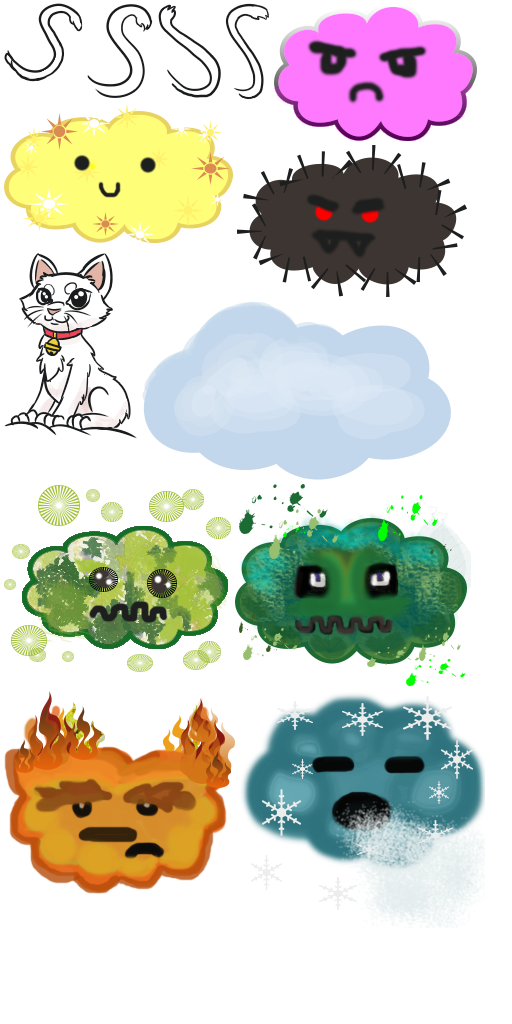
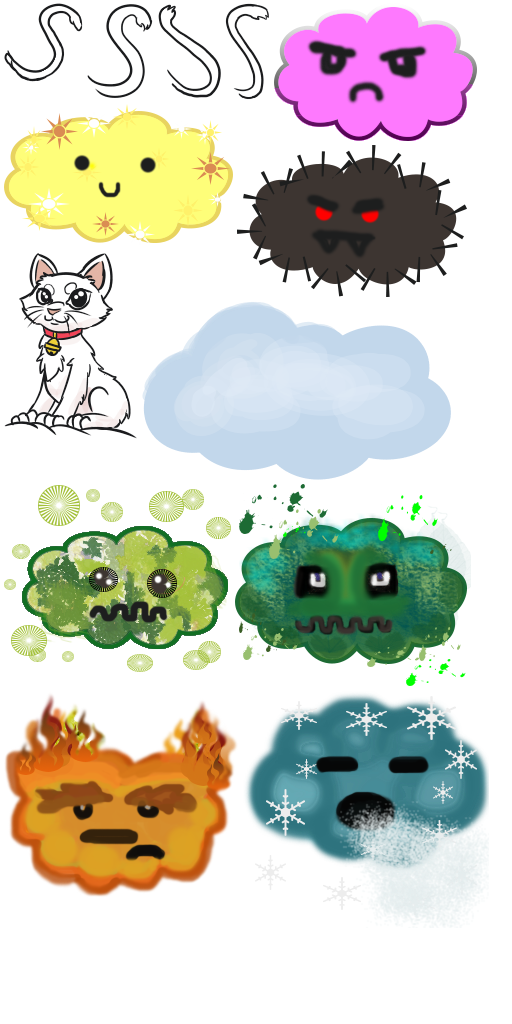
Fixed the lava cloud graphic, changed how cutscene progress is saved and loaded

Changed region(s): [[0.0, 0.6562, 0.75, 0.875], [0.5938, 0.6875, 0.9688, 0.8438], [0.75, 0.7188, 0.7812, 0.75]]

diff --git a/KuuraInTheGlobe-master/Assets/Cutscenes/Scripts/EventHandler.cs b/KuuraInTheGlobe-master/Assets/Cutscenes/Scripts/EventHandler.cs
@@ -73,54 +73,20 @@ public class EventHandler : MonoBehaviour {
     int completedLevels()
     {
         //Get completed levels from global game manager
-        levelsCompleted = 0;
-		return levelsCompleted;
-		/*
+		int ret = 0;
         switch (currentScene)
         {
-			
-            case "Mine":
-                for (int i = 0; i <= 10; i++)
-                {
-                    if (LabyGameManager.manager.completedLevels.Contains(i))
-                    {
-                        levelsCompleted++;
-                    }
-                }
-                break;
-            case "Warehouse":
-                for (int i = 0; i <= 10; i++)
-                {
-                    if (ShelfGameManager.manager.completedLevels.Contains(i))
-                    {
-                        levelsCompleted++;
-                    }
-                }
-                break;
-            case "Forest":
-                for (int i = 0; i <= 10; i++)
-                {
-                    if (RunnerManager.manager.completedLevels.Contains(i))
-                    {
-                        levelsCompleted++;
-                    }
-                }
-                break;
-            case "Memory":
-                for (int i = 0; i <= 10; i++)
-                {
-                    if (MemoryGameLevelSelecterLimitter.completedLevels.Contains(i))
-                    {
-                        levelsCompleted++;
-                    }
-                }
-                break;
-            
+			case "RocketGame": 
+				ret = GlobalGameManager.GGM.getNumberOfBeatenLevels ("rocketGame");
+				break;
+			case "WordQuiz":
+				ret = GlobalGameManager.GGM.getNumberOfBeatenLevels ("quizGame"); //Note that WordQuiz != quizGame!
+				break;
             default:
                 Debug.Log("Scene doesn't exist");
                 break;
-        }*/
-        //Debug.Log("levels completed is " + levelsCompleted);
+        }
+		return ret;
     }
     void progressedInStory()
     {
@@ -142,18 +108,9 @@ public class EventHandler : MonoBehaviour {
     {
         switch (currentScene)
         {
-			/*
-            case "Mine":
-                MusicPlayer.PlayMusic(MusicTrack.HedgeMazeCutscene);
-                break;
-            case "Warehouse":
-                MusicPlayer.PlayMusic(MusicTrack.BubbleWarehouseCutscene);
-                break;
-            case "Forest":*/
 			case "RocketGame":
 				MusicPlayer.PlayMusic(MusicTrack.WinterForestMarathonCutscene);
                 break;
-            //case "Memory":
 			case "WordQuiz":
                 MusicPlayer.PlayMusic(MusicTrack.MysticCardsCutscene);
                 break;
@@ -171,25 +128,9 @@ public class EventHandler : MonoBehaviour {
     {
         switch (currentScene)
         {
-			/*
-            case "Mine":
-                cutScenesWatched = GlobalGameManager.GGM.labyrinthCutscenesWatched;
-                break;
-            case "Warehouse":
-                cutScenesWatched = GlobalGameManager.GGM.warehouseCutscenesWatched;
-                break;
-            case "Forest":
-                cutScenesWatched = GlobalGameManager.GGM.runnerCutscenesWatched;
-                break;
-            case "Memory":
-                cutScenesWatched = GlobalGameManager.GGM.memoryCutscenesWatched;
-                break;
-            */
 			case "RocketGame":
-				cutScenesWatched = GlobalGameManager.GGM.rocketGameCutscenesWatched;
-				break;
 			case "WordQuiz":
-				cutScenesWatched = GlobalGameManager.GGM.wordQuizCutscenesWatched;
+				cutScenesWatched = GlobalGameManager.GGM.checkCutsceneProgress (currentScene);
 				break;
             default:
                 Debug.Log("Scene doesn't exist");

diff --git a/KuuraInTheGlobe-master/Assets/MapScene/Scripts/GlobalGameManager.cs b/KuuraInTheGlobe-master/Assets/MapScene/Scripts/GlobalGameManager.cs
@@ -60,8 +60,8 @@ public class GlobalGameManager : MonoBehaviour
     List<int> memoryGamecompletedLevels;
 
     //How many cutscenes the player has seen from each world;
-	public int rocketGameCutscenesWatched = 0;
-	public int wordQuizCutscenesWatched = 0;
+	//public int rocketGameCutscenesWatched = 0;
+	//public int wordQuizCutscenesWatched = 0;
 
     //Singleton check
     public void Awake()
@@ -89,7 +89,7 @@ public class GlobalGameManager : MonoBehaviour
 
     void Start()
     {
-        CutSceneLoad();
+        //CutSceneLoad();
     }
 
     public void StartMapScene()
@@ -172,17 +172,27 @@ public class GlobalGameManager : MonoBehaviour
 
 	//---------------------------------------------------------------------------------------------
 
-    public void CutSceneSave()
-    {
+	// Use these two functions to load and save the current progress of cutscenes
+	public int checkCutsceneProgress ( string key )
+	{
+		key = key + "-CutsceneWatched";
+		if (PlayerPrefs.HasKey ( key ) ) {
+			return PlayerPrefs.GetInt (key);
+		} else {
+			return 0;
+		}
+	}
 
-		PlayerPrefs.SetInt("rocketGameCutscenesWatched", rocketGameCutscenesWatched);
-		PlayerPrefs.SetInt("wordQuizCutscenesWatched", wordQuizCutscenesWatched );
-    }
-    public void CutSceneLoad()
-    {
-		rocketGameCutscenesWatched = PlayerPrefs.GetInt("rocketGameCutscenesWatched");
-		wordQuizCutscenesWatched = PlayerPrefs.GetInt("wordQuizCutscenesWatched");
-    }
+	public void saveCutsceneProgress ( string key, int val )
+	{
+		key = key + "-CutsceneWatched";
+		PlayerPrefs.SetInt (key, val);
+	}
+
+	public void incrementCutsceneProgress ( string key )
+	{
+		saveCutsceneProgress (key, GlobalGameManager.GGM.checkCutsceneProgress (key) + 1); 
+	}
 	//---------------------------------------------------------------------------------------------
 
     //Makes owning a specific hat true or false

diff --git a/KuuraInTheGlobe-master/Assets/Cutscenes/Scripts/TextBoxManager.cs b/KuuraInTheGlobe-master/Assets/Cutscenes/Scripts/TextBoxManager.cs
@@ -101,32 +101,17 @@ public class TextBoxManager : MonoBehaviour {
 
     private void addCutsceneWatched()
     {
+		
         switch (currentScene)
         {
-			/*
-            case "Mine":
-                GlobalGameManager.GGM.labyrinthCutscenesWatched++;
-                break;
-            case "Warehouse":
-                GlobalGameManager.GGM.warehouseCutscenesWatched++;
-                break;
-            case "Forest":
-                GlobalGameManager.GGM.runnerCutscenesWatched++;
-                break;
-            case "Memory":
-                GlobalGameManager.GGM.memoryCutscenesWatched++;
-                break;*/
 			case "RocketGame":
-				GlobalGameManager.GGM.rocketGameCutscenesWatched++;
-				break;
 			case "WordQuiz":
-				GlobalGameManager.GGM.wordQuizCutscenesWatched++;
+				GlobalGameManager.GGM.incrementCutsceneProgress (currentScene);
 				break;
             default:
                 Debug.Log("Scene doesn't exist");
                 break;
         }
-        GlobalGameManager.GGM.CutSceneSave();
     }
 
     private IEnumerator TextScroll (string lineOfText)
